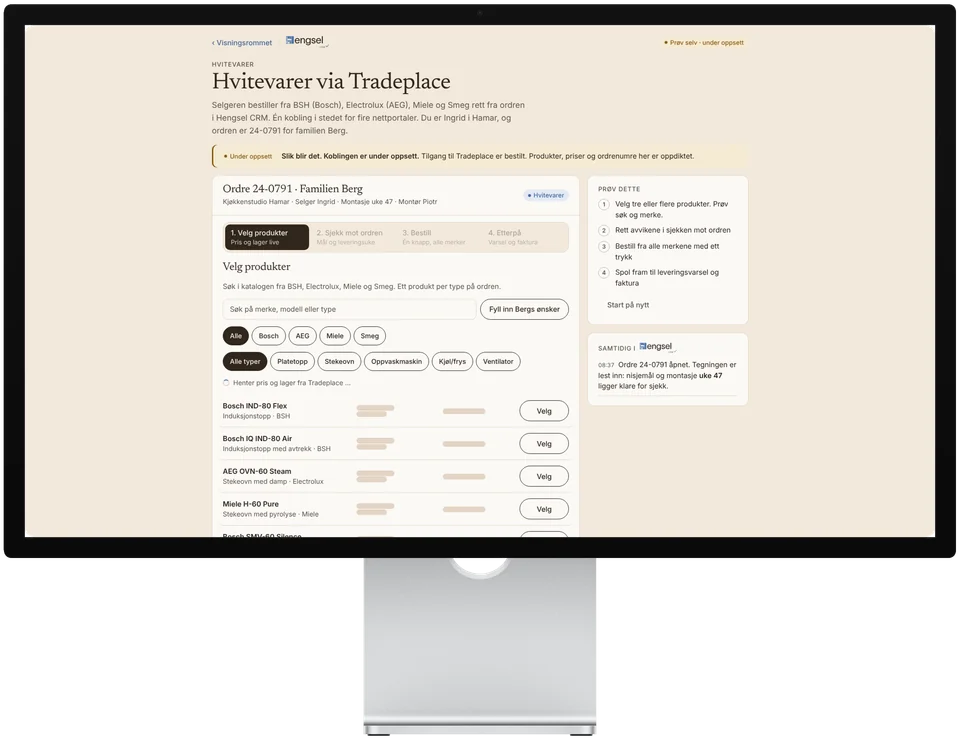
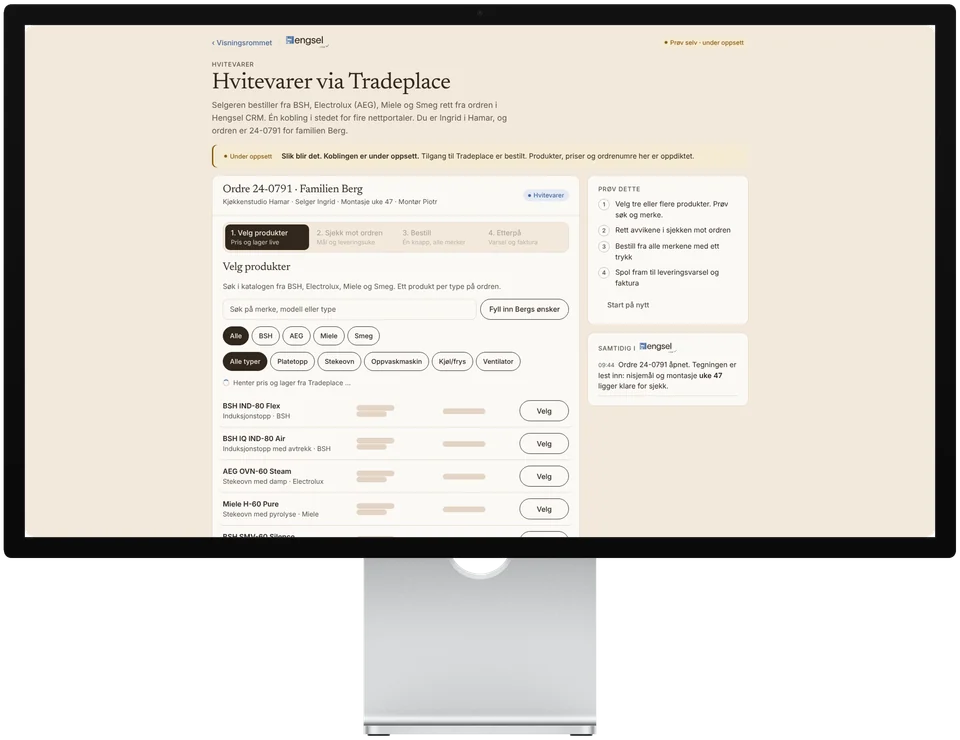
vis: nyeste ute-punkter og crm-ordre-kontrollmal fra pakkene, iPad-bildet i Montørappen, Bosch ut av Hvitevarer
- ute-punkter (v7) og crm-ordre-kontrollmal (v8) var eldre utgaver
- Montørappen på iPad bruker ute-ipad-bildeverktoy (v4, 2360x1640) i 11"-rammen i stedet for v2-bildene ute-ipad-i-dag og ute-ipad-ks (slettet)
- Hvitevarer: Bosch er BSH i tekst og data

Claude-Session: https://claude.ai/code/session_01JJU7QhUJLWv2BvkFrcodPX

diff --git a/sites/vis/src/hvitevarer/side.js b/sites/vis/src/hvitevarer/side.js
@@ -3,20 +3,20 @@ var $=function(i){return document.getElementById(i)};
 var fmt=function(n){return n.toLocaleString('nb-NO')+' kr'};
 var MONT=47,ONSKET=46;
 var P=[
- {id:'b1',m:'Bosch',lev:'BSH',kat:'Platetopp',navn:'Induksjonstopp',mod:'IND-80 Flex',need:80,net:9450,veil:14990,lager:'lager'},
- {id:'s1',m:'Bosch',lev:'BSH',kat:'Platetopp',navn:'Induksjonstopp med avtrekk',mod:'IQ IND-80 Air',need:80,net:18900,veil:27990,lager:'2u'},
+ {id:'b1',m:'BSH',lev:'BSH',kat:'Platetopp',navn:'Induksjonstopp',mod:'IND-80 Flex',need:80,net:9450,veil:14990,lager:'lager'},
+ {id:'s1',m:'BSH',lev:'BSH',kat:'Platetopp',navn:'Induksjonstopp med avtrekk',mod:'IQ IND-80 Air',need:80,net:18900,veil:27990,lager:'2u'},
  {id:'a1',m:'AEG',lev:'Electrolux',kat:'Stekeovn',navn:'Stekeovn med damp',mod:'OVN-60 Steam',need:60,net:11200,veil:16990,lager:'lager'},
  {id:'mi1',m:'Miele',lev:'Miele',kat:'Stekeovn',navn:'Stekeovn med pyrolyse',mod:'H-60 Pure',need:60,net:15800,veil:22990,lager:'rest'},
- {id:'b2',m:'Bosch',lev:'BSH',kat:'Oppvaskmaskin',navn:'Oppvaskmaskin, integrert',mod:'SMV-60 Silence',need:60,net:7900,veil:11490,lager:'lager'},
+ {id:'b2',m:'BSH',lev:'BSH',kat:'Oppvaskmaskin',navn:'Oppvaskmaskin, integrert',mod:'SMV-60 Silence',need:60,net:7900,veil:11490,lager:'lager'},
  {id:'mi2',m:'Miele',lev:'Miele',kat:'Oppvaskmaskin',navn:'Oppvaskmaskin, integrert',mod:'G-60 Vi',need:60,net:12400,veil:17990,lager:'2u'},
  {id:'a2',m:'AEG',lev:'Electrolux',kat:'Kjøl/frys',navn:'Kjøl/frys, integrert',mod:'KF-178 Int',need:178,net:10900,veil:15990,lager:'lager'},
- {id:'s2',m:'Bosch',lev:'BSH',kat:'Kjøl/frys',navn:'Kjøl/frys, integrert XL',mod:'KF-194 Int',need:194,net:13600,veil:19990,lager:'lager'},
+ {id:'s2',m:'BSH',lev:'BSH',kat:'Kjøl/frys',navn:'Kjøl/frys, integrert XL',mod:'KF-194 Int',need:194,net:13600,veil:19990,lager:'lager'},
  {id:'sm1',m:'Smeg',lev:'Smeg',kat:'Ventilator',navn:'Veggventilator',mod:'VENT-90 Line',need:90,net:8700,veil:12990,lager:'2u'},
  {id:'a3',m:'AEG',lev:'Electrolux',kat:'Ventilator',navn:'Integrert ventilator',mod:'VENT-80 Slim',need:80,net:4900,veil:7490,lager:'lager'}
 ];
 var SLOT={'Platetopp':[80,'Utsparing i benkeplata','cm bredde'],'Stekeovn':[60,'Ovnsnisje i høyskap','cm bredde'],'Oppvaskmaskin':[60,'Nisje under benk','cm bredde'],'Kjøl/frys':[178,'Nisjehøyde i høyskap','cm'],'Ventilator':[90,'Plass over platetopp','cm bredde']};
 var LAGER={lager:['På lager','ok',42],'2u':['2 uker','info',43],rest:['Restordre uke 49','warn',49]};
-var BRANDS=['Alle','Bosch','AEG','Miele','Smeg'],KATS=['Alle','Platetopp','Stekeovn','Oppvaskmaskin','Kjøl/frys','Ventilator'];
+var BRANDS=['Alle','BSH','AEG','Miele','Smeg'],KATS=['Alle','Platetopp','Stekeovn','Oppvaskmaskin','Kjøl/frys','Ventilator'];
 var ONR={BSH:'BSH 4501 2287',Electrolux:'EL 778 140',Miele:'MI 31 0092',Smeg:'SM 24 5518'};
 var S,timers=[];
 var byId=function(id){return P.filter(function(p){return p.id===id})[0]};
@@ -53,7 +53,7 @@ function tab1(){
  var qt;$('q').oninput=function(){S.q=this.value;clearTimeout(qt);qt=setTimeout(function(){fetchLive(500);renderList()},250)};
  $('cb').querySelectorAll('button').forEach(function(b){b.onclick=function(){S.brand=b.textContent;fetchLive(500);tab1()}});
  $('ck').querySelectorAll('button').forEach(function(b){b.onclick=function(){S.kat=b.textContent==='Alle typer'?'Alle':b.textContent;fetchLive(500);tab1()}});
- $('fill').onclick=function(){S.sel={'Platetopp':'b1','Stekeovn':'mi1','Oppvaskmaskin':'b2','Kjøl/frys':'s2','Ventilator':'sm1'};S.keep={};step('velg');log('Bergs ønsker lagt på ordren: <b>5 hvitevarer</b> fra Bosch, Miele og Smeg.');render()};
+ $('fill').onclick=function(){S.sel={'Platetopp':'b1','Stekeovn':'mi1','Oppvaskmaskin':'b2','Kjøl/frys':'s2','Ventilator':'sm1'};S.keep={};step('velg');log('Bergs ønsker lagt på ordren: <b>5 hvitevarer</b> fra BSH, Miele og Smeg.');render()};
  if(S.sent){$('fill').disabled=true}
  $('next').onclick=function(){go(2)};
  renderList()}

diff --git a/sites/vis/src/hvitevarer/index.html b/sites/vis/src/hvitevarer/index.html
@@ -146,7 +146,7 @@ h3.eyebrow{margin:0;display:flex;align-items:center;gap:8px;flex-wrap:wrap}
   <header class="sidehode">
     <div class="eyebrow">Hvitevarer</div>
     <h1>Hvitevarer via Tradeplace</h1>
-    <p class="lede">Selgeren bestiller fra BSH (Bosch), Electrolux (AEG), Miele og Smeg rett fra ordren i Hengsel CRM. Én kobling i stedet for fire nettportaler. Du er Ingrid i Hamar, og ordren er 24-0791 for familien Berg.</p>
+    <p class="lede">Selgeren bestiller fra BSH, Electrolux (AEG), Miele og Smeg rett fra ordren i Hengsel CRM. Én kobling i stedet for fire nettportaler. Du er Ingrid i Hamar, og ordren er 24-0791 for familien Berg.</p>
   </header>
   <div class="status" role="note"><span class="pill warn">Under oppsett</span><span><b>Slik blir det. Koblingen er under oppsett.</b> Tilgang til Tradeplace er bestilt. Produkter, priser og ordrenumre her er oppdiktet.</span></div>
   <div class="stage">

diff --git a/sites/vis/src/montor/index.html b/sites/vis/src/montor/index.html
@@ -59,7 +59,7 @@
         <div class="tlf" id="tlf" data-bilder="ute-i-dag,ute-jobb-under,ute-ks,ute-ks-kamera,ute-avvik,ute-punkter,ute-punktkort,ute-ferdig,ute-typeskilt" data-alt="Hengsel Ute på telefon"><div class="skjerm"></div></div>
       </div>
       <div class="enhet" data-enhet="ipad" hidden>
-        <div class="ipad-ramme" id="ipad" data-bilder="ute-ipad-i-dag,ute-ipad-ks" data-alt="Hengsel Ute på iPad"><div class="skjerm"></div></div>
+        <div class="ipad-ramme" id="ipad" data-bilder="ute-ipad-bildeverktoy" data-alt="Hengsel Ute på iPad: bildeverktøyet med punkter"><div class="skjerm"></div></div>
       </div>
     </div>
     <aside class="side">
